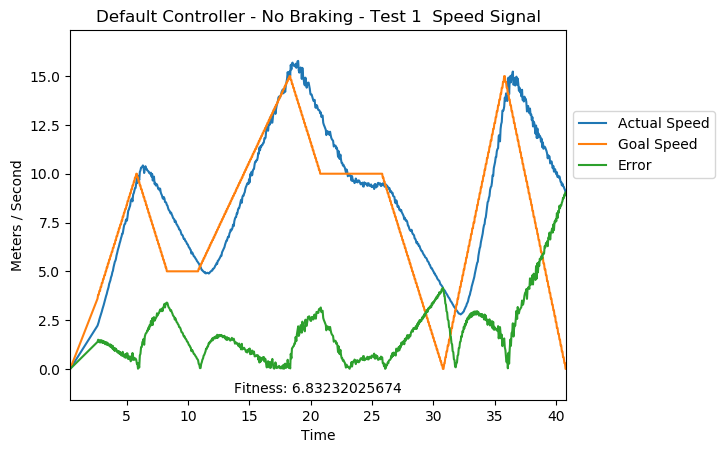
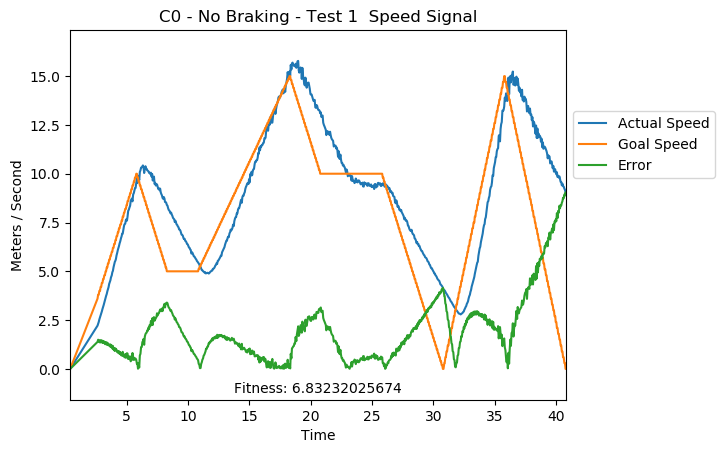
Generated new plots for enki-evo-ros paper

Changed region(s): [[0.1215, 0.0, 0.7597, 0.0618]]

diff --git a/msu_autorally/evo_ros2/src/EAs/logs/Enki-Signals-PID-Evolution/generate_plots.py b/msu_autorally/evo_ros2/src/EAs/logs/Enki-Signals-PID-Evolution/generate_plots.py
@@ -34,12 +34,29 @@ class plot_generator():
 		self.debug = cmd_args.debug
 		
 		
-		self.title = 'C1 - No Braking - Evolved '
-		self.run_directory = './'
-		filename = '{}log.json'.format(self.run_directory)
-	
-		self.import_file(filename)
-		self.create_run_plots()
+		run_multiple = False
+		self.number_runs = 10
+		
+		
+		if run_multiple:
+			for i in range(1,self.number_runs+1):
+				
+				print('Processesing run {}'.format(i))
+				self.run_number = i
+			
+				self.run_directory = 'run{}/'.format(self.run_number)
+				filename = '{}log.json'.format(self.run_directory)
+			
+				self.import_file(filename)
+				self.create_run_plots()
+		else:
+			self.run_number = 1
+			
+			self.run_directory = 'run{}/'.format(self.run_number)
+			filename = '{}log.json'.format(self.run_directory)
+		
+			self.import_file(filename)
+			self.create_run_plots()
 		
 		
 		
@@ -78,10 +95,23 @@ class plot_generator():
 		gen = self.summary_log_dict['gen']
 		avg_fit = self.summary_log_dict['avg']
 		best_fit = self.summary_log_dict['min']
+
+		print('Preparing plot 1...')
+		fig, ax1 = plt.subplots()
+		line1 = ax1.plot(gen, best_fit, "b-", label="Minimum (Best) Fitness")
+		ax1.set_xlabel("Generation")
+		ax1.set_ylabel("Fitness")
+		line2 = ax1.plot(gen, avg_fit, "r-", label="Average Fitness")
+		lns = line1 + line2
+		labs = [l.get_label() for l in lns]
+		ax1.legend(lns, labs, loc="best")
+		ax1.set_title('Run {} Fitnesses over Generations'.format(self.run_number))
+
+		print('Saving plot 1')
+		fig.savefig('{}/fitness_best_avg_graph.png'.format(self.run_directory), bbox_inches='tight')
 		
 		# Speed Signal of Best Ind
 		print('Preparing plot 2...')
-		plt.rcParams.update({'font.size': 16})
 		details_of_best_ind = self.detailed_log[str(self.hof[0])]
 		self.df = pd.read_json(details_of_best_ind['dataFrame'], orient='columns')
 		self.df = self.df.sort_index()
@@ -91,16 +121,35 @@ class plot_generator():
 		#ax2.legend(['Actual Speed', 'Error', 'Goal Speed'], loc="upper right")
 		ax2.legend(['Actual Speed', 'Goal Speed', 'Error'], bbox_to_anchor=(1.0, 0.8))
 		plt.ylabel('meters / second')
-		ax2.set_title('{} Speed Signal'.format(self.title))
+		ax2.set_title('Run {} Best Individuals Speed Signal'.format(self.run_number))
 		plt.text(0.5, 0.03, 'Fitness: {}'.format(self.best_fitness), horizontalalignment='center', verticalalignment='center', transform=ax2.transAxes)
 		fig2 = ax2.get_figure()
 		plt.margins(x = 0.0, y = 0.1)
 		print('Saving plot 2')
-		
 		fig2.savefig('{}/best_ind_speed_plot.png'.format(self.run_directory), bbox_inches='tight')
-		plt.show()
 		
+		# Just best fitness over generations
+		print('Preparing plot 3...')
+		fig3, ax3 = plt.subplots()
+		line1 = ax3.plot(gen, best_fit, "b-", label="Minimum (Best) Fitness")
+		ax3.set_xlabel("Generation")
+		ax3.set_ylabel("Fitness")
+		lns = line1
+		labs = [l.get_label() for l in lns]
+		ax3.legend(lns, labs, loc="best")
+		ax3.set_title('Run {} Fitnesses over Generations'.format(self.run_number))
+
+		print('Saving plot 3')
+		fig3.savefig('{}/fitness_best_graph.png'.format(self.run_directory), bbox_inches='tight')
 	
+	
+	def print_genealogy_tree(self):
+		graph = networkx.DiGraph(self.history.genealogy_tree)
+		graph = graph.reverse()     # Make the grah top-down
+		print(graph)
+		colors = [self.toolbox.evaluate(self.history.genealogy_history[i])[0] for i in graph]
+		networkx.draw(graph, node_color=colors)
+		plt.show()
 	
 	
 if __name__ == '__main__':

diff --git a/msu_autorally/evo_ros2/src/EAs/logs/PID-Testing-NoIncline-Speed-Signals/run_default-Braking-highRes/default/generate_speed_plot.py b/msu_autorally/evo_ros2/src/EAs/logs/PID-Testing-NoIncline-Speed-Signals/run_default-Braking-highRes/default/generate_speed_plot.py
@@ -33,7 +33,7 @@ class plot_generator():
 	def __init__(self, cmd_args):
 		self.debug = cmd_args.debug
 		
-		self.title = 'Default Controller - No Braking - Evolved '
+		self.title = 'C0 - No Braking - Evolved '
 		self.run_directory = './'
 		filename = '{}log.json'.format(self.run_directory)
 	
@@ -61,6 +61,7 @@ class plot_generator():
 		
 		# Speed Signal of Best Ind
 		print('Preparing plot...')
+		plt.rcParams.update({'font.size': 16})
 		self.df = pd.read_json(self.detailed_log, orient='columns')
 		self.df = self.df.sort_index()
 		self.df = self.df[['Actual Speed', 'Goal Speed', 'Error', 'Time']]

diff --git a/msu_autorally/evo_ros2/src/EAs/logs/PID-Testing-NoIncline-Speed-Signals/test_speed_signal_1/run_3-noBraking-highRes/generate_speed_plot.py b/msu_autorally/evo_ros2/src/EAs/logs/PID-Testing-NoIncline-Speed-Signals/test_speed_signal_1/run_3-noBraking-highRes/generate_speed_plot.py
@@ -33,7 +33,7 @@ class plot_generator():
 	def __init__(self, cmd_args):
 		self.debug = cmd_args.debug
 		
-		self.title = 'Evolved Controller - No Braking - Test 1 '
+		self.title = 'C1 - No Braking - Test 1 '
 		self.run_directory = './'
 		filename = '{}log.json'.format(self.run_directory)
 	
@@ -61,6 +61,7 @@ class plot_generator():
 		
 		# Speed Signal of Best Ind
 		print('Preparing plot...')
+		plt.rcParams.update({'font.size': 16})
 		self.df = pd.read_json(self.detailed_log, orient='columns')
 		self.df = self.df.sort_index()
 		self.df = self.df[['Actual Speed', 'Goal Speed', 'Error', 'Time']]

diff --git a/msu_autorally/evo_ros2/src/EAs/logs/PID-Testing-NoIncline-Speed-Signals/test_speed_signal_1/run_default-noBraking-highRes/generate_speed_plot.py b/msu_autorally/evo_ros2/src/EAs/logs/PID-Testing-NoIncline-Speed-Signals/test_speed_signal_1/run_default-noBraking-highRes/generate_speed_plot.py
@@ -33,7 +33,7 @@ class plot_generator():
 	def __init__(self, cmd_args):
 		self.debug = cmd_args.debug
 		
-		self.title = 'Default Controller - No Braking - Test 1 '
+		self.title = 'C0 - No Braking - Test 1 '
 		self.run_directory = './'
 		filename = '{}log.json'.format(self.run_directory)
 	
@@ -61,6 +61,7 @@ class plot_generator():
 		
 		# Speed Signal of Best Ind
 		print('Preparing plot...')
+		plt.rcParams.update({'font.size': 16})
 		self.df = pd.read_json(self.detailed_log, orient='columns')
 		self.df = self.df.sort_index()
 		self.df = self.df[['Actual Speed', 'Goal Speed', 'Error', 'Time']]

diff --git a/msu_autorally/evo_ros2/src/EAs/logs/PID-Testing-NoIncline-Speed-Signals/test_speed_signal_2/run_3-noBraking-highRes/generate_speed_plot.py b/msu_autorally/evo_ros2/src/EAs/logs/PID-Testing-NoIncline-Speed-Signals/test_speed_signal_2/run_3-noBraking-highRes/generate_speed_plot.py
@@ -33,7 +33,7 @@ class plot_generator():
 	def __init__(self, cmd_args):
 		self.debug = cmd_args.debug
 		
-		self.title = 'Evolved Controller - No Braking - Test 2 '
+		self.title = 'C1 - No Braking - Test 2 '
 		self.run_directory = './'
 		filename = '{}log.json'.format(self.run_directory)
 	
@@ -61,6 +61,7 @@ class plot_generator():
 		
 		# Speed Signal of Best Ind
 		print('Preparing plot...')
+		plt.rcParams.update({'font.size': 16})
 		self.df = pd.read_json(self.detailed_log, orient='columns')
 		self.df = self.df.sort_index()
 		self.df = self.df[['Actual Speed', 'Goal Speed', 'Error', 'Time']]

diff --git a/msu_autorally/evo_ros2/src/EAs/logs/PID-Testing-NoIncline-Speed-Signals/test_speed_signal_2/run_3-Braking-highRes/generate_speed_plot.py b/msu_autorally/evo_ros2/src/EAs/logs/PID-Testing-NoIncline-Speed-Signals/test_speed_signal_2/run_3-Braking-highRes/generate_speed_plot.py
@@ -33,7 +33,7 @@ class plot_generator():
 	def __init__(self, cmd_args):
 		self.debug = cmd_args.debug
 		
-		self.title = 'Evolved Controller - Braking - Test 2 '
+		self.title = 'C1 - Braking - Test 2 '
 		self.run_directory = './'
 		filename = '{}log.json'.format(self.run_directory)
 	
@@ -61,6 +61,7 @@ class plot_generator():
 		
 		# Speed Signal of Best Ind
 		print('Preparing plot...')
+		plt.rcParams.update({'font.size': 16})
 		self.df = pd.read_json(self.detailed_log, orient='columns')
 		self.df = self.df.sort_index()
 		self.df = self.df[['Actual Speed', 'Goal Speed', 'Error', 'Time']]

diff --git a/msu_autorally/evo_ros2/src/EAs/logs/PID-Testing-NoIncline-Speed-Signals/test_speed_signal_2/run_default-Braking-highRes/generate_speed_plot.py b/msu_autorally/evo_ros2/src/EAs/logs/PID-Testing-NoIncline-Speed-Signals/test_speed_signal_2/run_default-Braking-highRes/generate_speed_plot.py
@@ -33,7 +33,7 @@ class plot_generator():
 	def __init__(self, cmd_args):
 		self.debug = cmd_args.debug
 		
-		self.title = 'Default Controller - Braking - Test 2 '
+		self.title = 'C0 - Braking - Test 2 '
 		self.run_directory = './'
 		filename = '{}log.json'.format(self.run_directory)
 	
@@ -61,6 +61,7 @@ class plot_generator():
 		
 		# Speed Signal of Best Ind
 		print('Preparing plot...')
+		plt.rcParams.update({'font.size': 16})
 		self.df = pd.read_json(self.detailed_log, orient='columns')
 		self.df = self.df.sort_index()
 		self.df = self.df[['Actual Speed', 'Goal Speed', 'Error', 'Time']]
